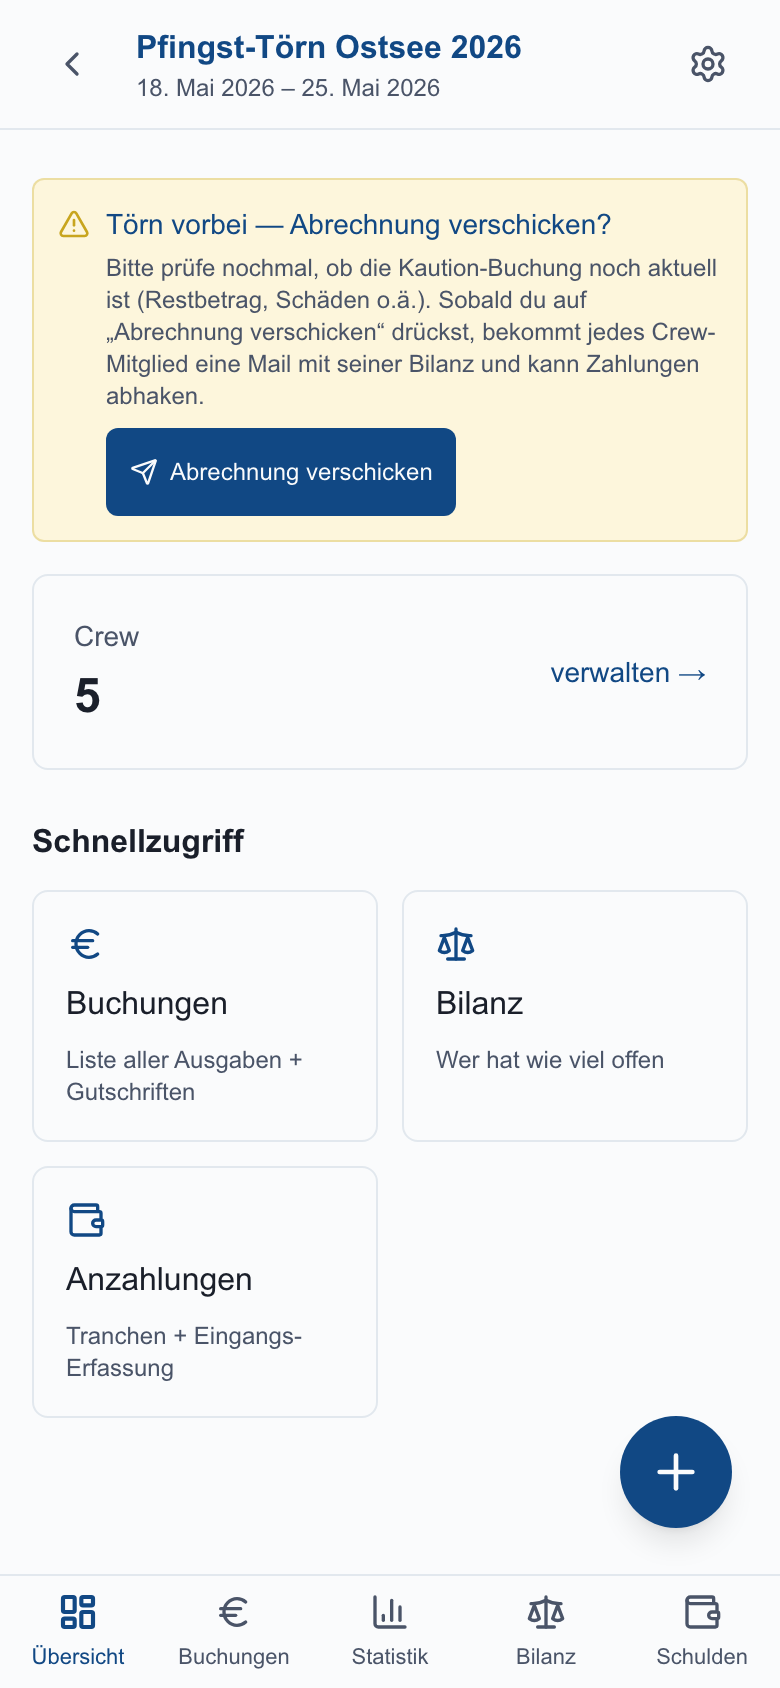
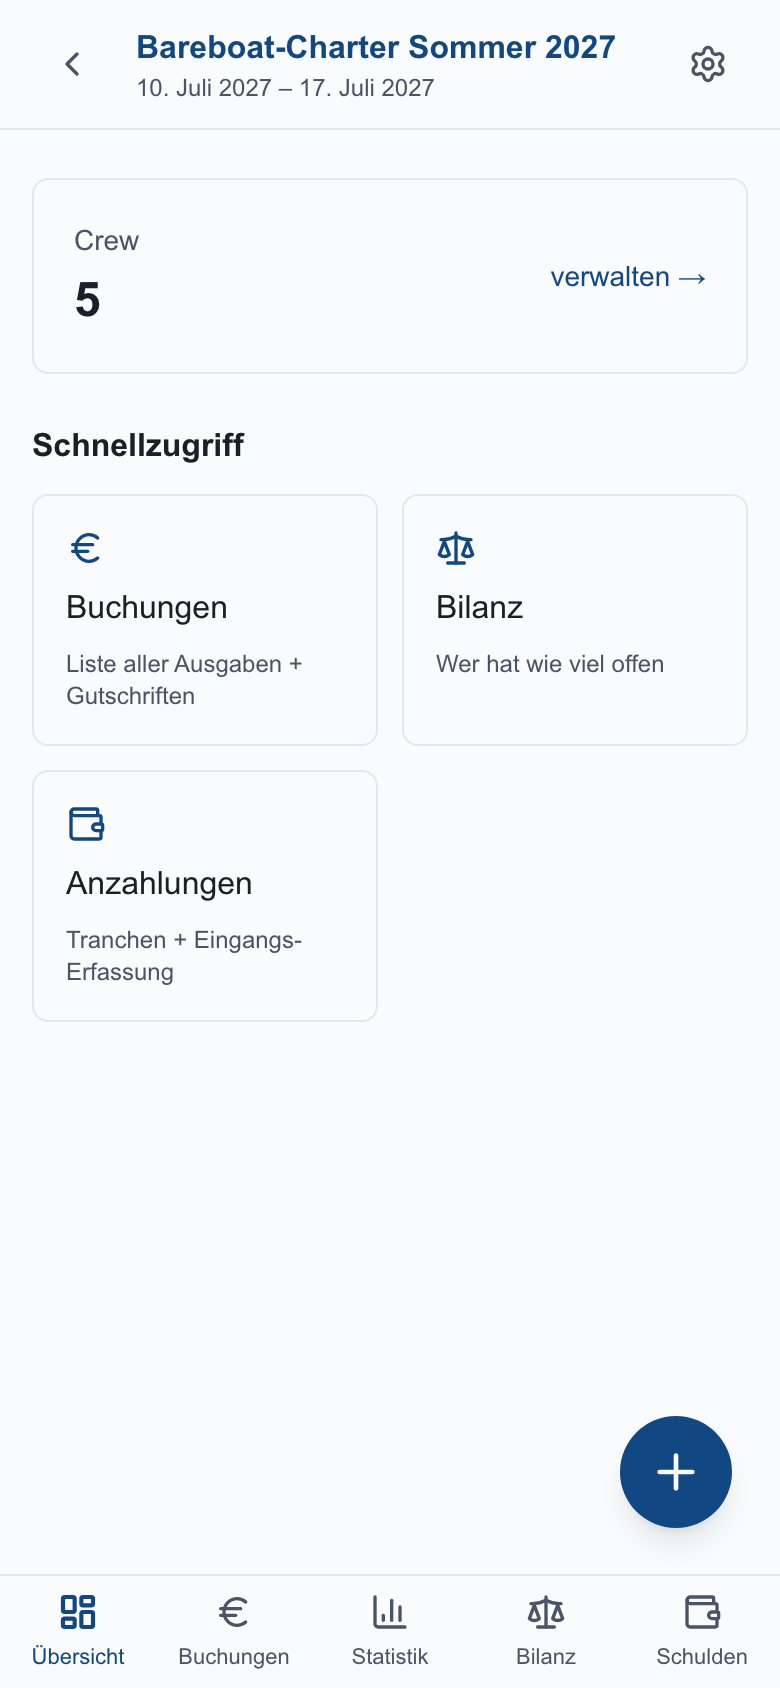
fix(about): Trip-Übersicht-Screenshot zeigt laufenden Törn, Matrix-Hinweis aktualisiert
- 04-trip-overview: kommt jetzt vom Bareboat-Charter (Zukunft, läuft noch) statt
  vom bereits beendeten Pfingst-Törn. In der About-Flow-Reihenfolge sitzt die
  Übersicht früh (direkt nach „Trip anlegen") — der „Törn vorbei — Abrechnung
  verschicken"-Banner war dort verfrüht. Der Settlement-/Abrechnungs-Banner wird
  weiterhin im Schulden-Screenshot (08, beendeter Pfingst-Törn) gezeigt, wo er in
  die Abrechnungs-Phase passt. alt-Text entsprechend angepasst.
- 16-anzahlung-matrix: neu wegen korrigiertem Wisch-Hinweis
  („Zum Anzeigen aller Spalten horizontal wischen →").
- take-screenshots.ts: 04 zieht aus tripCharterId, mit Kommentar zur Begründung.

diff --git a/webapp/scripts/take-screenshots.ts b/webapp/scripts/take-screenshots.ts
@@ -196,8 +196,14 @@ async function main() {
   console.log(`  ↳ Pfingst-Törn: ${tripId}`);
   console.log(`  ↳ Bareboat-Charter: ${tripCharterId}`);
 
-  console.log("→ Trip-Übersicht");
-  await page.goto(`${BASE_URL}/trips/${tripId}`);
+  // Trip-Übersicht bewusst vom Bareboat-Charter (Zukunft, läuft noch nicht):
+  // In der About-Flow-Reihenfolge steht die Übersicht früh (direkt nach
+  // „Trip anlegen"), da wäre der „Törn vorbei — Abrechnung verschicken"-Banner
+  // des bereits beendeten Pfingst-Törns verfrüht. Der Settlement-/Abrechnungs-
+  // Banner wird stattdessen im Schulden-Screenshot (08) gezeigt, der in der
+  // Abrechnungs-Phase sitzt.
+  console.log("→ Trip-Übersicht (Bareboat — Törn läuft noch)");
+  await page.goto(`${BASE_URL}/trips/${tripCharterId}`);
   await waitForLoad(page);
   await shot(page, "04-trip-overview");
 

diff --git a/webapp/app/about/page.tsx b/webapp/app/about/page.tsx
@@ -97,7 +97,7 @@ const features: Feature[] = [
       </>
     ),
     screenshot: "/about/04-trip-overview.png",
-    alt: "Übersicht pro Törn mit Hinweis-Banner, Schnellzugriff und Navigations-Leiste",
+    alt: "Übersicht eines anstehenden Törns mit Crew-Zähler, Schnellzugriff-Kacheln und Navigations-Leiste",
   },
   {
     id: "buchungen",
